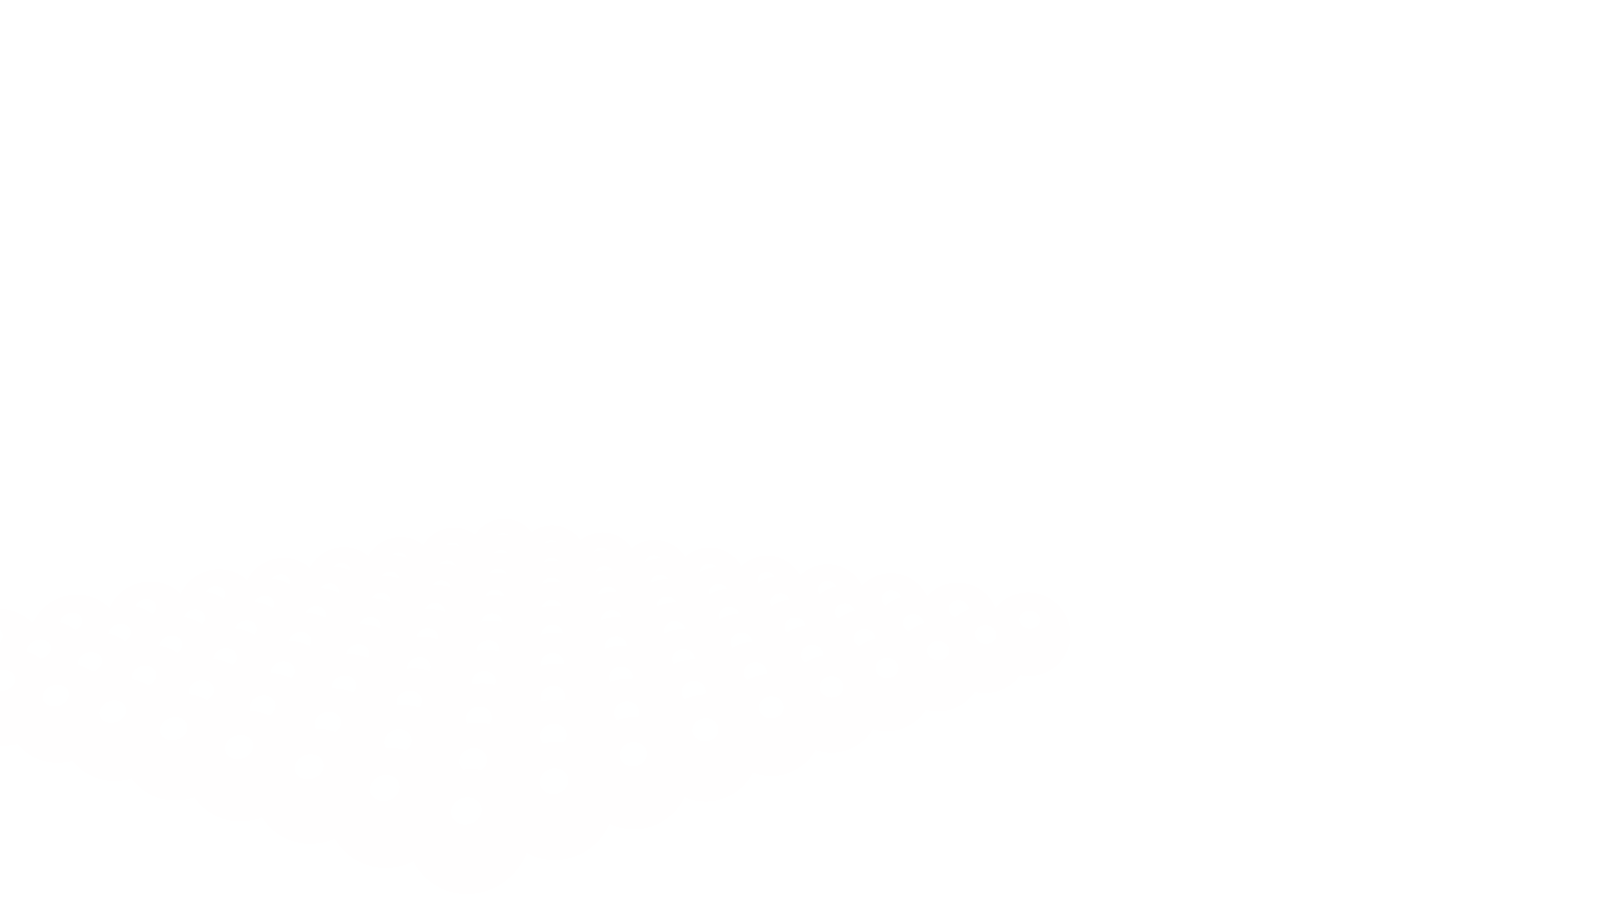
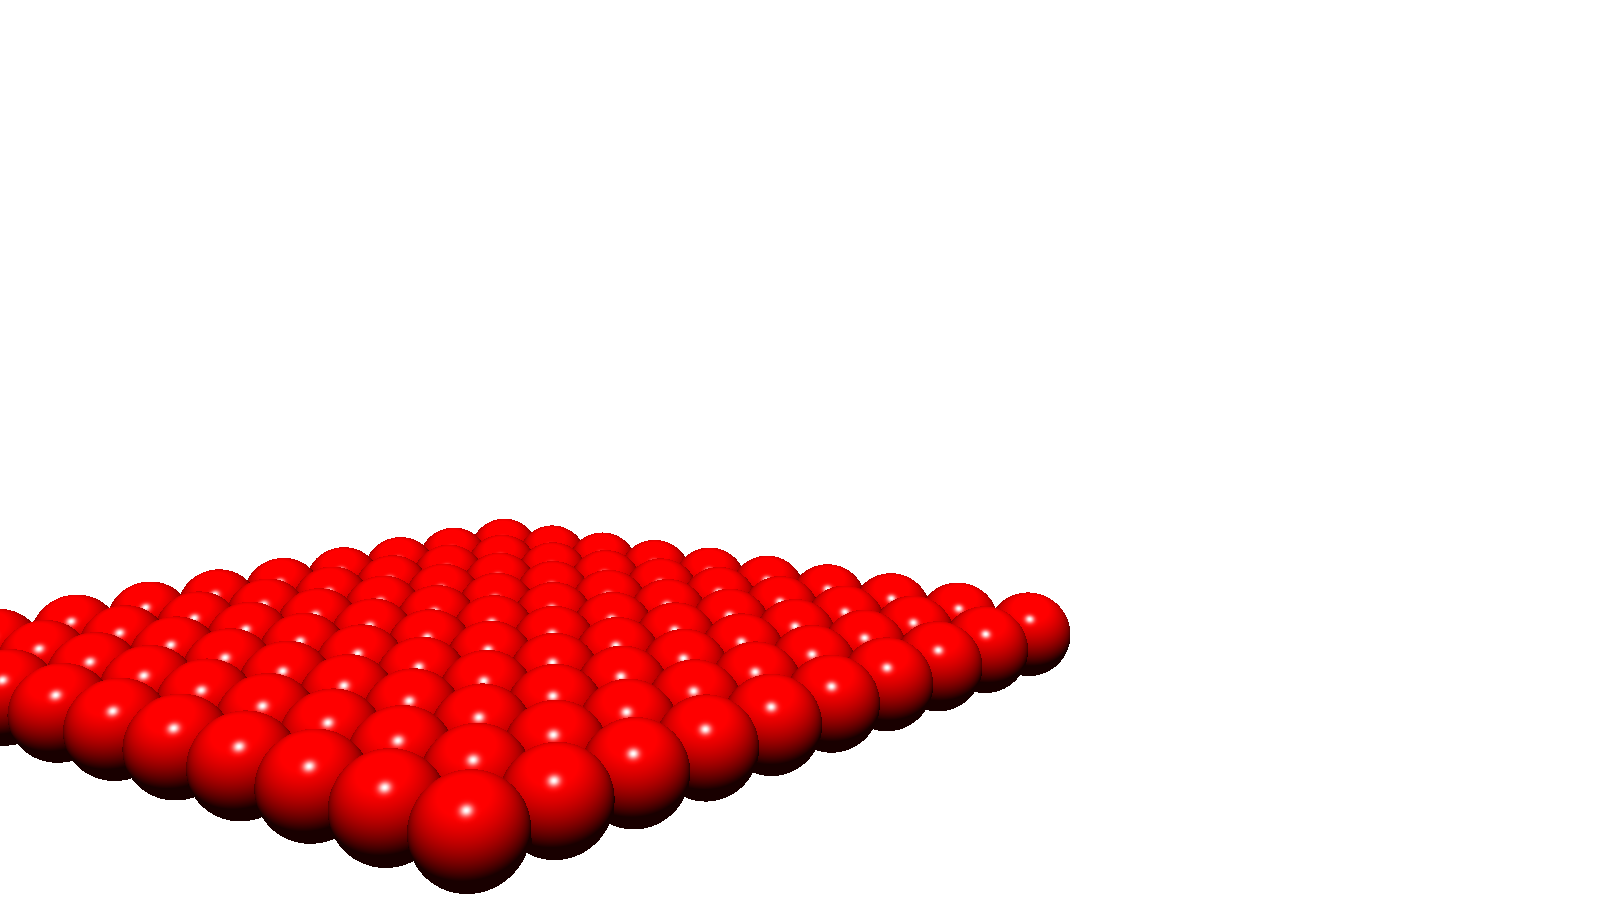
deleted bvh shit

Changed region(s): [[0.0, 0.56, 0.6875, 0.9956]]

diff --git a/RaytracerAT/RaytracerAT/main.cpp b/RaytracerAT/RaytracerAT/main.cpp
@@ -39,7 +39,7 @@ int main()
 		}
 	}
 
-	S.createBVH();
+	//S.createBVH();
 	S.createImage(0);
 	S.saveImage(0, "Image1.png");
 	S.displayImage(0);
